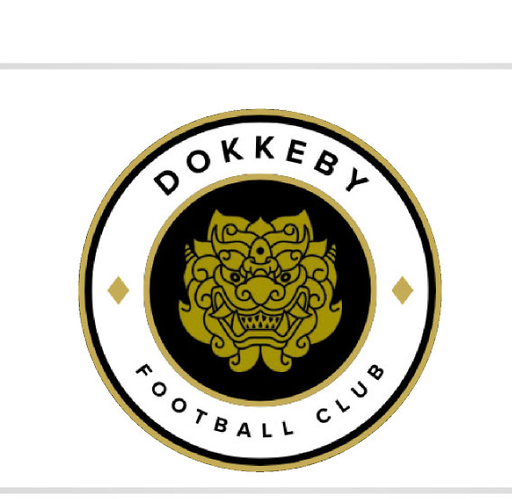
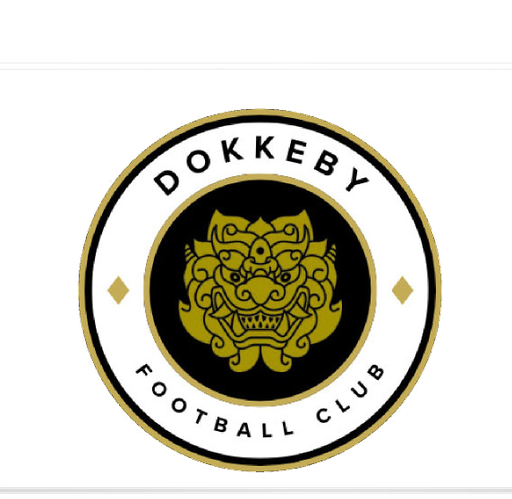
fix: 엠블럼 흰 배경 투명 처리 + 홈 히어로 워터마크 블렌드
- 유니폼_마크.jpg 에서 재추출, PIL flood-fill로 외곽 흰 배경 알파 0 처리
  (투명 픽셀 57.5%, 안쪽 흰 링은 로고 자체 디자인이라 보존)
- public/dokkaebi-emblem.png + dokkaebi-emblem-192.png(파비콘) 재생성
  → 헤더·로그인·홈·파비콘 모두 자동 반영
- HomeView 히어로 워터마크에 mix-blend-mode: luminosity + opacity 30%
  → onyx 배경에 자연스럽게 녹아드는 모노톤 효과
- 사용 안 하는 favicon.svg 제거

Changed region(s): [[0.0, 0.1202, 1.0, 0.1503]]

diff --git a/src/views/public/HomeView.vue b/src/views/public/HomeView.vue
@@ -38,7 +38,8 @@ onMounted(async () => {
         :src="emblemSrc"
         alt=""
         aria-hidden="true"
-        class="absolute -right-6 -bottom-6 w-40 h-40 opacity-20 pointer-events-none"
+        class="absolute -right-6 -bottom-6 w-40 h-40 opacity-30 pointer-events-none"
+        style="mix-blend-mode: luminosity"
       />
       <div class="relative">
         <p class="text-[10px] text-gold font-semibold tracking-[0.35em]">DOKKEBY FOOTBALL CLUB</p>